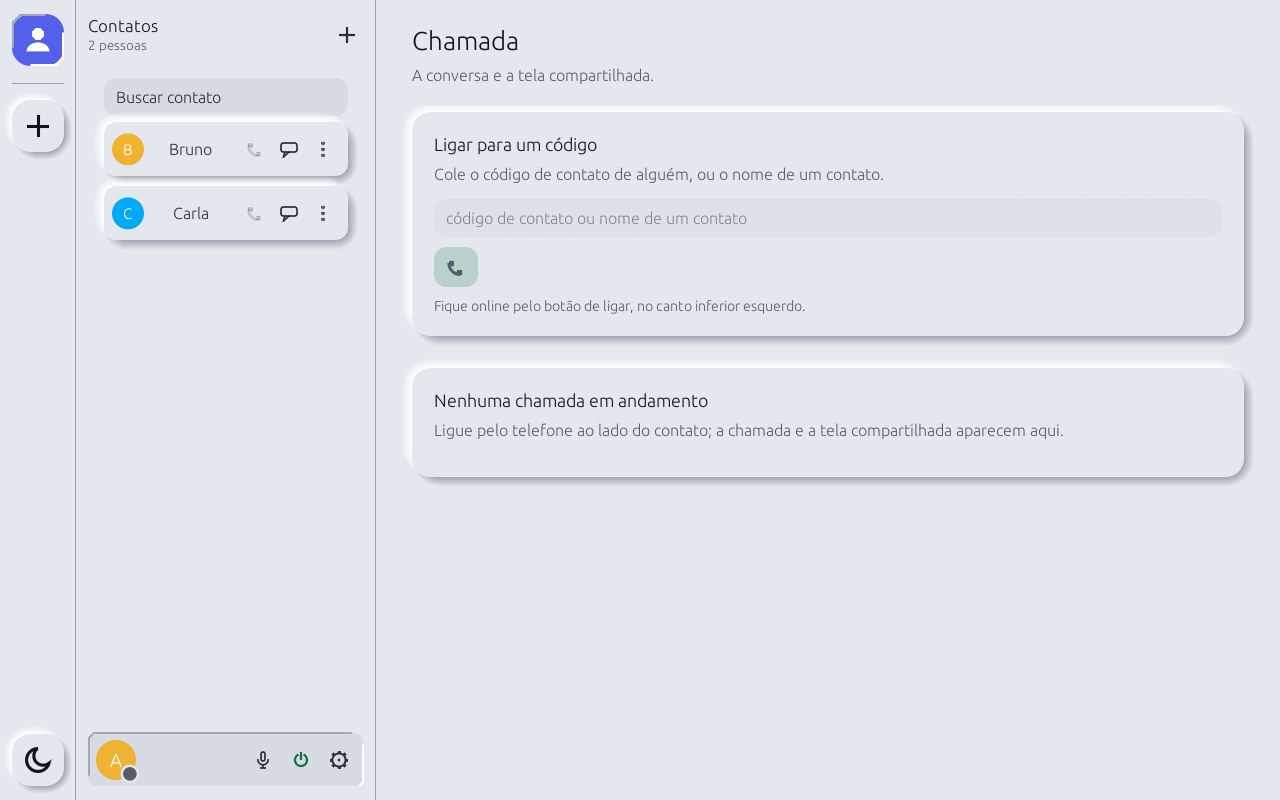
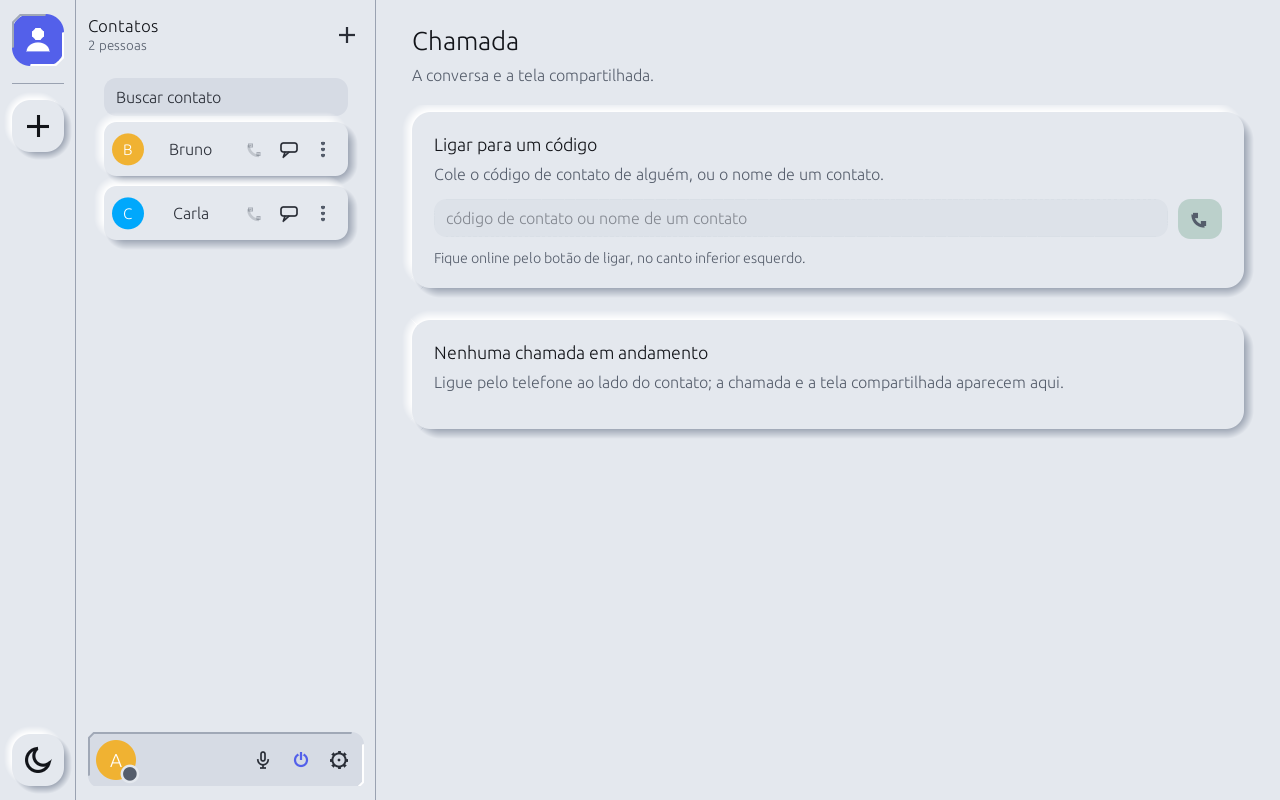
GUI: orientação e estado nas telas (crítica das capturas)
A engrenagem agora fica marcada quando a tela aberta é uma das que ela
abre; o ligar offline usa o acento (verde é "ao vivo/ok"); o tratamento
da voz se divide em Ruído, Eco e Nível e formato, com o controle da
porta renomeado para não se confundir com "Remover ruído"; Atividade
vazia vira um cartão curto; Servidores não repete o título; em Chamada o
botão de ligar fica na linha do campo. O fixture das capturas parte dos
padrões reais (privacidade da tela ligada). Testes e docs/GUI.md
atualizados, PNGs regenerados.

diff --git a/examples/gui/settings.rs b/examples/gui/settings.rs
@@ -39,7 +39,7 @@ impl App {
             }
             ui.add_space(4.0);
             if offline {
-                if big_button(ui, "Ficar online", pal().green).clicked() {
+                if big_button(ui, "Ficar online", BLURPLE).clicked() {
                     self.go_online(ctx);
                 }
             } else if why_off(button(ui, !in_call, "Ficar offline", pal().bg), !in_call, "Desligue a chamada antes de ficar offline").clicked()
@@ -213,13 +213,16 @@ impl App {
     }
 
     pub(crate) fn log_tab(&mut self, ui: &mut egui::Ui) {
+        // Sem linhas o poço de altura cheia só carregava uma frase no canto: um cartão curto diz o mesmo e o poço
+        // volta quando houver o que listar.
+        if self.log.lock_unpoisoned().is_empty() {
+            card(ui, "Nada ainda", &format!("Fique online pelo {ONLINE_HINT}; o que o programa faz aparece aqui."), |_| {});
+            return;
+        }
         sunken_frame(ui, 12, 14, |ui| {
             ui.set_width(ui.available_width());
             egui::ScrollArea::vertical().auto_shrink(false).stick_to_bottom(true).show(ui, |ui| {
                 let lines = self.log.lock_unpoisoned();
-                if lines.is_empty() {
-                    note(ui, "Nada ainda. Fique online (botão de ligar, no canto inferior esquerdo) e o que o programa faz aparece aqui.");
-                }
                 for l in lines.iter() {
                     ui.label(RichText::new(l).monospace().size(13.5));
                 }
@@ -304,6 +307,47 @@ mod layout_tests {
                     for (b, rb) in &rects[i + 1..] {
                         assert!(!ra.intersects(*rb), "largura {width}, offline {offline}: '{a}' {ra:?} sobrepõe '{b}' {rb:?}");
                     }
+                }
+            }
+        }
+    }
+
+    /// Renderiza `f` numa janela de `size` e devolve os cartões desenhados (título e retângulo).
+    fn cards(size: egui::Vec2, f: impl FnMut(&mut egui::Ui)) -> Vec<(String, egui::Rect)> {
+        let mut f = f;
+        let ctx = egui::Context::default();
+        crate::theme::apply(&ctx);
+        for _ in 0..3 {
+            CARD_RECTS.with(|r| r.borrow_mut().clear());
+            let input = egui::RawInput { screen_rect: Some(egui::Rect::from_min_size(egui::Pos2::ZERO, size)), ..Default::default() };
+            let _ = ctx.run(input, |ctx| {
+                egui::CentralPanel::default().show(ctx, |ui| f(ui));
+            });
+        }
+        CARD_RECTS.with(|r| r.borrow().clone())
+    }
+
+    /// Atividade sem linhas é um cartão curto, não um poço que ocupa a altura toda.
+    #[test]
+    fn an_empty_activity_log_is_a_short_card() {
+        let mut app = app();
+        let rects = cards(egui::vec2(1000.0, 800.0), |ui| app.log_tab(ui));
+        let (_, rect) = rects.iter().find(|(t, _)| t == "Nada ainda").expect("cartão de log vazio");
+        assert!(rect.height() < 160.0, "o cartão vazio tem {} px", rect.height());
+    }
+
+    /// O tratamento da voz vem em cartões por assunto, sem um sobre o outro, nas duas larguras.
+    #[test]
+    fn voice_settings_are_grouped_in_cards_that_do_not_overlap() {
+        for width in [700.0_f32, 1300.0] {
+            let mut app = app();
+            let rects = cards(egui::vec2(width, 1800.0), |ui| app.audio_tab(ui, true, false, false));
+            for title in ["Ruído", "Eco", "Nível e formato"] {
+                assert!(rects.iter().any(|(t, _)| t == title), "largura {width}: falta o cartão '{title}'");
+            }
+            for (i, (a, ra)) in rects.iter().enumerate() {
+                for (b, rb) in &rects[i + 1..] {
+                    assert!(!ra.intersects(*rb), "largura {width}: '{a}' {ra:?} sobrepõe '{b}' {rb:?}");
                 }
             }
         }

diff --git a/examples/gui/ui.rs b/examples/gui/ui.rs
@@ -51,6 +51,12 @@ pub(crate) struct App {
     pub(crate) chat_draft: String,
 }
 
+/// A engrenagem fica marcada nas telas que só se abrem por ela: sem isso a pessoa em Áudio ou Configurações não vê
+/// onde está (o trilho marca a coluna de contatos, não a tela do centro).
+pub(crate) fn gear_marks(tab: Tab) -> bool {
+    matches!(tab, Tab::Video | Tab::Audio | Tab::Settings | Tab::Log)
+}
+
 /// Larguras a partir das quais o conteúdo se divide em duas colunas.
 const TWO_COLUMNS: f32 = 780.0;
 
@@ -195,7 +201,7 @@ impl App {
             let can_toggle = offline || !in_call;
             if can_toggle && me.hovered() {
                 ui.painter().circle_filled(me.rect.center(), me.rect.width() / 2.0, Color32::from_black_alpha(150));
-                theme::power_icon(ui, me.rect, if offline { pal().green } else { pal().red });
+                theme::power_icon(ui, me.rect, if offline { pal().focus } else { pal().red });
             }
             let tip = format!("{name}: {text}{}", if !can_toggle { "" } else if offline { "\nClique para ficar online" } else { "\nClique para ficar offline" });
             let me = me.on_hover_text(tip);
@@ -209,7 +215,10 @@ impl App {
             // Sair da sala e desligar a chamada 1:1 ficam na subseção acima deste painel.
             // Engrenagem e mudo ficam juntos na ponta direita da linha (a engrenagem por último, na borda).
             ui.with_layout(egui::Layout::right_to_left(egui::Align::Center), |ui| {
-                let gear = glyph_button(ui, "Menu", "Chamada, vídeo, áudio, configurações e atividade", None, gear_icon);
+                // A engrenagem marca a tela aberta quando ela mora no menu (o trilho ao lado só diz qual coluna está à esquerda).
+                let here = gear_marks(self.tab);
+                let gear_tip = if here { format!("{} (aberta). Chamada, vídeo, áudio, configurações e atividade", self.title().0) } else { "Chamada, vídeo, áudio, configurações e atividade".to_string() };
+                let gear = glyph_button_active(ui, "Menu", &gear_tip, here, gear_icon);
                 let calling_1to1 = in_call && !in_room;
                 let menu = theme::menu(&gear).show(|ui| {
                     ui.set_min_width(theme::MENU_WIDTH);
@@ -234,7 +243,7 @@ impl App {
                 theme::menu_focus_back(ui, &gear, menu.is_some());
                 let muted = self.shared.audio.muted.load(Ordering::Relaxed);
                 // Offline o caminho para ficar online fica à vista: sem ele, só o hover do avatar o mostrava.
-                if offline && glyph_button(ui, "Ficar online", "Ficar online", Some(pal().green), power_glyph).clicked() {
+                if offline && glyph_button(ui, "Ficar online", "Ficar online", Some(pal().focus), power_glyph).clicked() {
                     self.go_online(ctx);
                 }
                 let shortcut = ctx.format_shortcut(&MUTE_KEY);
@@ -399,5 +408,21 @@ impl eframe::App for App {
             self.note_slow(format!("janela: um quadro levou {} ms para desenhar", took.as_millis()));
         }
         LAST_FRAME_END.with(|l| l.set(Some(std::time::Instant::now())));
+    }
+}
+
+#[cfg(test)]
+mod tests {
+    use super::*;
+
+    /// A engrenagem marca só as telas que moram no menu dela; a inicial, a chamada e os servidores ficam de fora.
+    #[test]
+    fn the_gear_marks_only_the_screens_it_opens() {
+        for tab in [Tab::Video, Tab::Audio, Tab::Settings, Tab::Log] {
+            assert!(gear_marks(tab));
+        }
+        for tab in [Tab::Contacts, Tab::Call, Tab::Servers] {
+            assert!(!gear_marks(tab));
+        }
     }
 }

diff --git a/examples/gui/theme.rs b/examples/gui/theme.rs
@@ -370,6 +370,13 @@ pub(crate) fn why_off(reply: egui::Response, enabled: bool, reason: &str) -> egu
 /// `ink` recebe se o ponteiro está em cima e devolve a tinta; em `Ui` desligado o ícone apaga e não reage. Botão novo
 /// nasce daqui, para não esquecer nome, dica ou foco.
 fn bare_button(ui: &mut Ui, size: egui::Vec2, name: &str, tip: &str, ink: impl FnOnce(bool) -> Color32, icon: f32, draw: impl FnOnce(&egui::Painter, Pos2, f32, Color32)) -> egui::Response {
+    bare_button_state(ui, size, name, tip, false, ink, icon, draw)
+}
+
+/// `bare_button` com estado de "lugar atual": `active` afunda a placa e pinta o ícone no acento, para a pessoa ver em
+/// qual tela está (cor e relevo juntos: o estado nunca fica só na sombra).
+#[allow(clippy::too_many_arguments)]
+fn bare_button_state(ui: &mut Ui, size: egui::Vec2, name: &str, tip: &str, active: bool, ink: impl FnOnce(bool) -> Color32, icon: f32, draw: impl FnOnce(&egui::Painter, Pos2, f32, Color32)) -> egui::Response {
     let enabled = ui.is_enabled();
     let (rect, reply) = ui.allocate_exact_size(size, egui::Sense::click());
     reply.widget_info(|| egui::WidgetInfo::labeled(egui::WidgetType::Button, enabled, name));
@@ -377,10 +384,18 @@ fn bare_button(ui: &mut Ui, size: egui::Vec2, name: &str, tip: &str, ink: impl F
     // qual linha é o menu.
     let open = egui::Popup::is_id_open(ui.ctx(), egui::Popup::default_response_id(&reply));
     let hovered = enabled && (reply.hovered() || open);
-    if hovered {
+    if active && enabled {
+        sunken(ui.painter(), rect, R_BARE, pal().deep);
+    } else if hovered {
         ui.painter().rect_filled(rect, CornerRadius::same(R_BARE), pal().hover);
     }
-    let color = if enabled { ink(hovered) } else { pal().muted.gamma_multiply(0.5) };
+    let color = if !enabled {
+        pal().muted.gamma_multiply(0.5)
+    } else if active {
+        pal().focus
+    } else {
+        ink(hovered)
+    };
     draw(ui.painter(), rect.center() + press_nudge(&reply), icon, color);
     focus_ring(ui, &reply, R_BARE);
     // `on_hover_text` só aparece com o widget ligado: num ícone desligado a dica (o motivo) vai por `on_disabled_hover_text`.
@@ -882,6 +897,12 @@ pub(crate) fn alert_icon(painter: &egui::Painter, center: Pos2, size: f32, color
 /// `Ui` desligado o ícone apaga e não clica.
 pub(crate) fn glyph_button(ui: &mut Ui, name: &str, tip: &str, color: Option<Color32>, draw: impl FnOnce(&egui::Painter, Pos2, f32, Color32)) -> egui::Response {
     bare_button(ui, vec2(34.0, 34.0), name, tip, |h| color.unwrap_or(if h { pal().strong } else { pal().text }), 20.0, draw)
+}
+
+/// `glyph_button` que marca o lugar atual: `active` afunda a placa e põe o ícone no acento (a engrenagem, quando a
+/// tela aberta é uma das que moram no menu dela).
+pub(crate) fn glyph_button_active(ui: &mut Ui, name: &str, tip: &str, active: bool, draw: impl FnOnce(&egui::Painter, Pos2, f32, Color32)) -> egui::Response {
+    bare_button_state(ui, vec2(34.0, 34.0), name, tip, active, |h| if h { pal().strong } else { pal().text }, 20.0, draw)
 }
 
 /// Linha de menu com ícone desenhado à esquerda; `selected` marca a linha como o item atual e `tint` fixa a

diff --git a/examples/gui/media.rs b/examples/gui/media.rs
@@ -113,10 +113,20 @@ impl App {
                     }
                 });
             } else {
-                card(ui, "Tratamento da voz", "O que o programa faz com o som antes de mandá-lo.", |ui| {
-                    ui.spacing_mut().slider_width = (ui.available_width() - 110.0).max(120.0);
+                // Três cartões por assunto (ruído, eco, nível): oito caixas no mesmo nível não se leem de uma vez.
+                card(ui, "Ruído", "O que o programa faz com o som antes de mandá-lo.", |ui| {
                     ui.check(&mut p.denoise, "Remover ruído (rede neural)")
                         .on_hover_text("Tira teclado, ventilador, estática e vozes ao fundo (RNNoise). Com ela ligada, a porta e o indicador \"voz\" só contam o que a rede reconhece como fala. Adiciona ~10 ms de atraso.");
+                    ui.check(&mut p.gate, "Silenciar o que não é voz")
+                        .on_hover_text("Quando o microfone fica abaixo do limiar, o som enviado é reduzido. Ajuste a sensibilidade até a linha ficar logo acima do ruído.");
+                    ui.add_enabled_ui(p.gate, |ui| {
+                        ui.spacing_mut().slider_width = (ui.available_width() - 110.0).max(120.0);
+                        ui.label("Quanto abaixar o que não é voz");
+                        ui.add(egui::Slider::new(&mut p.gate_depth_db, AudioPrefs::GATE_DEPTH_DB).suffix(" dB"));
+                    });
+                    ui.check(&mut p.high_pass, "Cortar graves (ventilador, mesa, sopro)");
+                });
+                card(ui, "Eco", "", |ui| {
                     ui.check(&mut p.echo_cancel, "Cancelar eco do alto-falante")
                         .on_hover_text("Tira do microfone o que saiu pelo alto-falante, para o outro lado não se ouvir de volta. Leva alguns segundos de conversa para aprender o ambiente. Com fones não é preciso.");
                     ui.check(&mut p.echo_suppress, "Abaixar o microfone enquanto só há eco")
@@ -124,13 +134,8 @@ impl App {
                     if let Some(erle) = a.echo_erle().filter(|_| p.echo_cancel && (in_call || testing)) {
                         note(ui, format!("Eco cancelado: {erle:.0} dB"));
                     }
-                    ui.check(&mut p.gate, "Silenciar o que não é voz")
-                        .on_hover_text("Quando o microfone fica abaixo do limiar, o som enviado é reduzido. Ajuste a sensibilidade até a linha ficar logo acima do ruído.");
-                    ui.add_enabled_ui(p.gate, |ui| {
-                        ui.label("Redução do ruído");
-                        ui.slider(egui::Slider::new(&mut p.gate_depth_db, AudioPrefs::GATE_DEPTH_DB).suffix(" dB"));
-                    });
-                    ui.check(&mut p.high_pass, "Cortar graves (ventilador, mesa, sopro)");
+                });
+                card(ui, "Nível e formato", "", |ui| {
                     ui.check(&mut p.agc, "Volume automático (nivela voz baixa e alta)")
                         .on_hover_text("Reforça quem fala baixo e contém quem fala alto. Não reforça o ruído de fundo.");
                     ui.add_enabled_ui(!in_call, |ui| {

diff --git a/examples/gui/snapshot.rs b/examples/gui/snapshot.rs
@@ -162,8 +162,9 @@ fn sample_app(tab: Tab) -> App {
         my_name: "Ana".into(),
         secret: "11".repeat(32),
         contacts: format!("Bruno {}\nCarla {}", "ab".repeat(32), "cd".repeat(32)),
-        intros: true,
-        ..Form::default()
+        // Os padrões de quem abre o app pela primeira vez (privacidade da tela ligada, DHT, âncora): a captura mostra o
+        // que a pessoa vê de verdade, não um `Form` zerado que desmarca tudo.
+        ..Form::first_run()
     };
     App {
         rt,
@@ -193,6 +194,14 @@ fn shot(tab: Tab, size: egui::Vec2) -> Frame {
 #[cfg(test)]
 mod tests {
     use super::*;
+
+    /// A captura parte dos padrões reais: a privacidade na transmissão da tela vem ligada.
+    #[test]
+    fn sample_app_starts_from_the_real_defaults() {
+        let app = sample_app(Tab::Video);
+        assert!(app.form.screen_private, "o padrão do app é privado");
+        assert!(app.form.use_dht && app.form.auto_online);
+    }
 
     /// O rasterizador pinta: a tela de Configurações em tema escuro tem bem mais que o fundo.
     #[test]

diff --git a/examples/gui/call.rs b/examples/gui/call.rs
@@ -12,8 +12,12 @@ impl App {
     pub(crate) fn dial_card(&mut self, ui: &mut egui::Ui, offline: bool, busy: bool) {
         card(ui, "Ligar para um código", "Cole o código de contato de alguém, ou o nome de um contato.", |ui| {
             let live = !offline && !busy;
-            ui.add_enabled(live, field(&mut self.form.peer, "código de contato ou nome de um contato"));
-            if phone_button(ui, live, "Ligar", pal().green).clicked() {
+            // O botão fica na linha do campo, à direita: é dele que a ação sai, e abaixo ficava solto e apagado.
+            let dial = ui.horizontal(|ui| {
+                ui.add_enabled(live, field(&mut self.form.peer, "código de contato ou nome de um contato").desired_width(field_beside(ui, 44.0)));
+                phone_button(ui, live, "Ligar", pal().green).clicked()
+            });
+            if dial.inner {
                 match self.form.target() {
                     Ok(k) => {
                         self.form.save();

diff --git a/examples/gui/servers.rs b/examples/gui/servers.rs
@@ -87,8 +87,8 @@ impl App {
     pub(crate) fn servers_tab(&mut self, ui: &mut egui::Ui, offline: bool) {
         let hub = self.shared.servers.lock_unpoisoned().clone();
         let Some(hub) = hub.filter(|_| !offline) else {
-            card(ui, "Servidores", "Grupos de pessoas com salas de voz, sem servidor no meio.", |ui| {
-                note(ui, "Fique online pelo botão de ligar, no canto inferior esquerdo, para ver e usar os seus servidores.");
+            // O título da página já diz "Servidores": o cartão diz o estado, não repete o nome.
+            card(ui, "Você está offline", &format!("Para ver e usar os seus servidores, fique online pelo {ONLINE_HINT}."), |ui| {
                 details(ui, "Como funciona", "Cada membro guarda o grupo e o mantém de pé enquanto estiver online; não há servidor que o hospede.");
             });
             return;

diff --git a/docs/GUI.md b/docs/GUI.md
@@ -6,7 +6,7 @@ Uso da GUI (`examples/gui`): as abas, volume, sensibilidade do microfone, dispos
 
 ## As abas
 
-A janela segue o layout do Discord e o visual neomórfico (soft UI: uma cor base, relevo por duas sombras; cartões e botões elevados, campos e caixas afundados, botão apertado afunda): à esquerda ficam o trilho de servidores (o ícone de pessoa, Contatos, no alto, que troca a coluna de salas pela lista de contatos, um embaixo do outro, os servidores e + para criar um novo; bem no pé do trilho, o botão do **tema**: sol no escuro, lua no claro) e, ao lado dele, a **coluna de salas** do servidor escolhido (fora da tela do servidor, e sem servidor escolhido, ela mostra os contatos no lugar; clicar numa sala entra nela; quem está em cada sala aparece embaixo do nome). No pé da coluna ficam o seu avatar com o estado (offline, conectando, online, em chamada; o texto do estado aparece ao passar o mouse), o mudo, a **engrenagem** (menu com Chamada, Vídeo, Áudio, Configurações e Atividade) e o desligar; passar o mouse no círculo com a sua inicial mostra o ícone de ligar/desligar e clicar alterna entre online e offline (menos em chamada). Offline, um botão de ligar verde (`power_glyph`) fica à vista ao lado do mudo, e as telas que pedem para ficar online apontam para ele (`ONLINE_HINT`); online ele some. Com a janela larga (≥ 780 px) cada página se divide em duas colunas. Os botões de ação (ligar, desligar, mudo, compartilhar a tela, assistir, ampliar) são só um ícone, e o nome da ação aparece ao passar o mouse; assistir é um olho (com um risco quando já está assistindo); o quadradinho vermelho de "transmitindo" só aparece em quem não tem botão.
+A janela segue o layout do Discord e o visual neomórfico (soft UI: uma cor base, relevo por duas sombras; cartões e botões elevados, campos e caixas afundados, botão apertado afunda): à esquerda ficam o trilho de servidores (o ícone de pessoa, Contatos, no alto, que troca a coluna de salas pela lista de contatos, um embaixo do outro, os servidores e + para criar um novo; bem no pé do trilho, o botão do **tema**: sol no escuro, lua no claro) e, ao lado dele, a **coluna de salas** do servidor escolhido (fora da tela do servidor, e sem servidor escolhido, ela mostra os contatos no lugar; clicar numa sala entra nela; quem está em cada sala aparece embaixo do nome). No pé da coluna ficam o seu avatar com o estado (offline, conectando, online, em chamada; o texto do estado aparece ao passar o mouse), o mudo, a **engrenagem** (menu com Chamada, Vídeo, Áudio, Configurações e Atividade) e o desligar; passar o mouse no círculo com a sua inicial mostra o ícone de ligar/desligar e clicar alterna entre online e offline (menos em chamada). Offline, um botão de ligar no acento (`power_glyph`; verde é "ao vivo/ok", e o app ainda não está) fica à vista ao lado do mudo, e as telas que pedem para ficar online apontam para ele (`ONLINE_HINT`); online ele some. Com a janela larga (≥ 780 px) cada página se divide em duas colunas. Os botões de ação (ligar, desligar, mudo, compartilhar a tela, assistir, ampliar) são só um ícone, e o nome da ação aparece ao passar o mouse; assistir é um olho (com um risco quando já está assistindo); o quadradinho vermelho de "transmitindo" só aparece em quem não tem botão.
 
 À esquerda da janela fica, em qualquer aba, o *trilho de servidores* (como o do Discord): um ícone com a inicial de cada servidor e o **+** para criar ou aceitar convite. Clicar num ícone abre a página daquele servidor; a barra de abas não tem item de Servidores, só o trilho.
 
@@ -16,9 +16,9 @@ A janela segue o layout do Discord e o visual neomórfico (soft UI: uma cor base
 | *Servidor* (pelo trilho) | As *Salas de voz* com quem está em cada uma, o aro verde de quem fala e, no centro, o bate-papo da sala em que você está (apagado quando a sala esvazia; enquanto você assiste a uma tela ela cobre o centro e o bate-papo só volta ao parar de assistir ou ao clicar no nome da sala na barra do pé), *Telas da sala*, e, numa coluna à direita, os *Membros* (online e offline) com o convite recolhido e o aviso de IP. A coluna de membros só abre sozinha em janela de 1100 px ou mais (trilho + salas + membros tomam 716 px e o bate-papo precisa de ~380); em janela menor ela fica escondida, e o ícone de duas pessoas no cabeçalho das salas (dica: "membros e convite", já que o convite mora nessa coluna) mostra ou esconde e fica afundado enquanto a coluna está aberta, a escolha valendo até fechar o app. Detalhes em [SERVIDORES.md](SERVIDORES.md) |
 | **Chamada** | *Ligar para um código* (sem chamada); a conversa (chamar ou atender não troca de aba; compartilhar a tela e o mudo ficam só na barra do pé, sem botão aqui), *Sua transmissão* (estado e linha de diagnóstico, só quando você transmite) e a *Tela de ...* de quem transmite para você, que se vê só de dois jeitos: a miniatura do cartão e a tela cheia (🔍; a janela do app vai a tela cheia e a imagem ocupa tudo; sai pelo X no canto ou pelo Esc) |
 | **Vídeo** | *Transmissão de tela*: privacidade, *Priorizar* fluidez ou nitidez e codificar pela placa de vídeo; valem da próxima transmissão, na chamada e nas salas |
-| **Áudio** | *Dispositivos* (usar microfone e alto-falante, escolha dos dois), *Volume e microfone* (mudo, volume, ganho, medidor, sensibilidade, teste) e *Tratamento da voz* (ruído, eco, porta, graves, volume automático, Opus) |
+| **Áudio** | *Dispositivos* (usar microfone e alto-falante, escolha dos dois), *Volume e microfone* (mudo, volume, ganho, medidor, sensibilidade, teste) e três cartões de tratamento da voz: *Ruído* (remover ruído, silenciar o que não é voz e o quanto abaixar, cortar graves), *Eco* (cancelar e abaixar o microfone) e *Nível e formato* (volume automático, Opus, restaurar padrões) |
 | **Configurações** | *Conexão* (Ficar online / offline, o estado e a caixa *Tentar ficar online ao abrir o programa*, ligada por padrão; desmarcar grava `no_auto_online=1` em `~/.clam-gui.conf`), *Meu código de contato* (com *Copiar o código*), *Identidade* (a chave secreta, oculta; *Gerar nova identidade*), *Seu nome*, *Endereço* público, *Encontrar contatos* (DHT, circuito da DHT, aceitar apresentações) e *Âncoras* (servir de âncora, as que você usa e o código da sua) |
-| **Atividade** | O registro do que o programa está fazendo (avisos de endereço, apresentações, erros) |
+| **Atividade** | O registro do que o programa está fazendo (avisos de endereço, apresentações, erros); vazio, é um cartão curto (*Nada ainda*), não um poço de altura cheia |
 
 Tudo o que a janela guarda fica em `~/.clam-gui.conf` e nos arquivos ao lado (`.clam-gui.known`, `.clam-gui.relay`, `.clam-gui.intro`, `.clam-gui.removed`, `.clam-gui.servers`); a chave secreta vai para o chaveiro do sistema, quando há ([SEGURANCA.md](SEGURANCA.md#chaveiro)). Se o chaveiro não responde, a janela avisa em *Identidade* e não cria uma identidade nova no lugar.
 
@@ -27,7 +27,7 @@ Tudo o que a janela guarda fica em `~/.clam-gui.conf` e nos arquivos ao lado (`.
 - **Controles de áudio.** Com o áudio ligado e o nó online, a aba Áudio tem mudo (envia silêncio), volume do alto-falante (0 a 200 %), ganho do microfone (0 a 300 %), um medidor do microfone (fica parado enquanto estiver no mudo) e "Testar o microfone", que devolve a sua voz ao alto-falante (use fones). Durante o teste a linha fica ocupada.
 - **Sensibilidade e tratamento da voz.** O medidor traz uma linha na cor do texto: o limiar de sensibilidade (-60 a -20 dBFS, padrão -45). Quando a voz passa da linha o medidor fica verde e diz "voz" (senão, fica azul e sem texto). Quanto mais à esquerda a linha, mais sensível. Em volta dela:
   - **Remover ruído (rede neural)** (ligado por padrão): RNNoise, pelo crate `nnnoiseless` (Rust puro). Tira teclado, ventilador, estática e vozes ao fundo, o que filtro por volume não separa. O áudio sobe de 16 para 48 kHz, passa pela rede em quadros de 10 ms e volta; custa ~10 ms de atraso e pouca CPU. A rede também diz, a cada 10 ms, a probabilidade de ser voz: com ela ligada, a porta e o indicador "voz" só contam trechos acima do limiar **e** com probabilidade ≥ 0,5. Nos primeiros ~100 ms de uma chamada a rede ainda se calibra e pode tomar ruído por voz.
-  - **Silenciar o que não é voz** (porta, desligada por padrão): abaixo do limiar (ou fora do que a rede reconhece como voz) o som enviado cai pela "Redução do ruído" (6 a 60 dB, padrão 40). A porta abre em 2 ms, segura 250 ms depois da última palavra e fecha em ~60 ms, para não cortar o fim das frases.
+  - **Silenciar o que não é voz** (porta, desligada por padrão): abaixo do limiar (ou fora do que a rede reconhece como voz) o som enviado cai pelo controle "Quanto abaixar o que não é voz" (6 a 60 dB, padrão 40). A porta abre em 2 ms, segura 250 ms depois da última palavra e fecha em ~60 ms, para não cortar o fim das frases.
   - **Cancelar eco do alto-falante** (ligado por padrão): o AEC3 do WebRTC (`sonora`) usa o que o alto-falante tocou como referência e tira do microfone o que voltou por ele. A janela mostra "Eco cancelado: N dB" na chamada (energia do microfone antes e depois do cancelador, enquanto o outro lado fala). Leva alguns segundos de conversa para aprender o ambiente. A referência é o que de fato saiu pelo alto-falante, amostra a amostra e inclusive o silêncio, entregue ao cancelador assim que chega e nunca completada com zeros: antes ela só tinha as partes com voz e blocos grandes da placa a entregavam em rajadas, e o cancelador perdia o atraso entre o que tocou e o que o microfone ouviu (no alto-falante do notebook, ~0–3 dB; agora ~14 dB, com o atraso achado em ~25 ms).
   - **Abaixar o microfone enquanto só há eco** (ligado por padrão): reforço para o que o cancelador deixa passar. Com o outro lado tocando acima de -50 dBFS (e até ~160 ms depois), se o microfone está mais de 20 dB abaixo do que sai pelo alto-falante o som cai 18 dB (desce em 3 ms, volta em 40 ms) e o indicador "voz" não acende. Quem fala bem baixinho por cima do outro pode ser cortado; com fones, desligue.
   - **Cortar graves** (ligado por padrão): filtro passa-altas de 12 dB por oitava em 100 Hz; tira ventilador, estrondo de mesa e sopro.
@@ -102,9 +102,11 @@ As seções da janela (trilho, salas, centro, membros) são separadas por uma li
 
 **Convidar e atalhos.** O cabeçalho das salas tem um ícone de convidar (pessoa com `+`) ao lado do alternador de membros: abre ali mesmo um menu com o formulário de convite (não há mais cartão no fim da lista de membros); só fecha por clique fora ou Esc, para dar tempo de escolher o contato e marcar o aviso do IP. Atalhos (Ctrl; Cmd no macOS), sempre na dica do botão: **Ctrl+I** convida, **Ctrl+B** mostra ou esconde os membros, **Ctrl+M** muda o microfone para mudo e de volta, **Ctrl+K** leva à lista de contatos e foca a busca e **Esc** fecha o menu de convite. O erro do convite aparece dentro do menu, junto do botão, e some quando ele fecha; ao enviar com sucesso o menu fecha e o "Convite enviado a X" fica no pé da aba, com as demais respostas do servidor. Entrar numa sala não tem atalho de propósito: é o gesto que mostra o IP aos membros e uma tecla perdida não deve fazer isso.
 
-**Menus.** Todos os itens passam por `menu_item`/`menu_row` (`theme.rs`): ícone desenhado, tinta vermelha só no destrutivo, atalho à direita da própria ação e, quando o item não vale, a linha fica apagada, sem relevo nem clique, cresce para mostrar o motivo escrito sob o rótulo e o hover o repete (*Abra um servidor para usar*, *Você está nesta sala: saia dela antes de apagá-la*) e o mesmo motivo vai no nome acessível da linha, para quem usa teclado ou leitor de tela. Os botões que abrem menu (engrenagem, três pontos, sair, lixeira) têm nome acessível próprio (*Mais ações de Fulano*, *Apagar a sala X*). Sair do servidor, apagar sala, remover membro e remover contato (este com a caixa *Bloquear também*) perguntam dentro do menu: a pergunta, o efeito escrito (hover não existe no teclado nem no toque), *Cancelar* e, abaixo e afastada, a confirmação em vermelho, com o ícone do próprio item (porta, lixeira, escudo). O foco do teclado entra em *Cancelar* (o padrão seguro) e, ao cancelar, volta ao item; Esc desfaz a pergunta, e só o segundo Esc fecha o menu. Nos menus de um item só (sair do servidor, apagar sala e remover membro quando quem remove não é o dono, que não tem Promover; `confirm_direct`) não há a linha intermediária: o menu abre já na pergunta, e *Cancelar* ou Esc fecham o menu. Nos menus, ↑ e ↓ andam entre as linhas (o egui já faz entre controles focáveis), Home e End vão à primeira e à última, e Enter aciona. Todos os menus têm a mesma largura mínima (`MENU_WIDTH`, 280 px); um rótulo comprido termina em "…" antes do atalho, em vez de passar por cima. Ao fechar o menu pelo teclado, o foco volta ao botão que o abriu. O menu da engrenagem tem as telas (a chamada em curso aparece como *Chamada em curso*, com o ícone no acento), só isso. Convidar, mostrar os membros, buscar contato e o microfone mudo não estão aqui: cada um fica no botão do próprio lugar (cabeçalho do servidor, lista de contatos e o microfone ao lado da engrenagem), e o atalho continua valendo. Os menus abrem por `theme::menu` (os formulários de convite e de novo contato também): acionado pelo teclado (Enter ou Espaço), o menu leva o foco ao primeiro item habilitado, senão o Tab sairia do popup; com o mouse o foco não muda. O gatilho (⋮, lixeira, porta, engrenagem) fica com a placa e a tinta fortes enquanto o menu dele está aberto, para saber de qual linha é o menu numa lista de ⋮ iguais (o formulário de convite, aberto por `open_bool`, não tem essa marca). O item atual do menu da engrenagem leva também um ponto de acento à direita e `selected` no nome acessível, para o estado não depender só do fundo. O escudo de "Tirar a confiança" aparece cheio (já confia) e o de "Marcar como de confiança", só no contorno.
+**Menus.** Todos os itens passam por `menu_item`/`menu_row` (`theme.rs`): ícone desenhado, tinta vermelha só no destrutivo, atalho à direita da própria ação e, quando o item não vale, a linha fica apagada, sem relevo nem clique, cresce para mostrar o motivo escrito sob o rótulo e o hover o repete (*Abra um servidor para usar*, *Você está nesta sala: saia dela antes de apagá-la*) e o mesmo motivo vai no nome acessível da linha, para quem usa teclado ou leitor de tela. Os botões que abrem menu (engrenagem, três pontos, sair, lixeira) têm nome acessível próprio (*Mais ações de Fulano*, *Apagar a sala X*). Sair do servidor, apagar sala, remover membro e remover contato (este com a caixa *Bloquear também*) perguntam dentro do menu: a pergunta, o efeito escrito (hover não existe no teclado nem no toque), *Cancelar* e, abaixo e afastada, a confirmação em vermelho, com o ícone do próprio item (porta, lixeira, escudo). O foco do teclado entra em *Cancelar* (o padrão seguro) e, ao cancelar, volta ao item; Esc desfaz a pergunta, e só o segundo Esc fecha o menu. Nos menus de um item só (sair do servidor, apagar sala e remover membro quando quem remove não é o dono, que não tem Promover; `confirm_direct`) não há a linha intermediária: o menu abre já na pergunta, e *Cancelar* ou Esc fecham o menu. Nos menus, ↑ e ↓ andam entre as linhas (o egui já faz entre controles focáveis), Home e End vão à primeira e à última, e Enter aciona. Todos os menus têm a mesma largura mínima (`MENU_WIDTH`, 280 px); um rótulo comprido termina em "…" antes do atalho, em vez de passar por cima. Ao fechar o menu pelo teclado, o foco volta ao botão que o abriu. O menu da engrenagem tem as telas (a chamada em curso aparece como *Chamada em curso*, com o ícone no acento), só isso. Convidar, mostrar os membros, buscar contato e o microfone mudo não estão aqui: cada um fica no botão do próprio lugar (cabeçalho do servidor, lista de contatos e o microfone ao lado da engrenagem), e o atalho continua valendo. Os menus abrem por `theme::menu` (os formulários de convite e de novo contato também): acionado pelo teclado (Enter ou Espaço), o menu leva o foco ao primeiro item habilitado, senão o Tab sairia do popup; com o mouse o foco não muda. O gatilho (⋮, lixeira, porta, engrenagem) fica com a placa e a tinta fortes enquanto o menu dele está aberto, para saber de qual linha é o menu numa lista de ⋮ iguais (o formulário de convite, aberto por `open_bool`, não tem essa marca). Enquanto a tela aberta é uma das que a engrenagem abre (Chamada em curso à parte: Vídeo, Áudio, Configurações, Atividade; `gear_marks`), a engrenagem fica afundada com a tinta do acento (`glyph_button_active`), e a dica diz "(aberta)". O item atual do menu da engrenagem leva também um ponto de acento à direita e `selected` no nome acessível, para o estado não depender só do fundo. O escudo de "Tirar a confiança" aparece cheio (já confia) e o de "Marcar como de confiança", só no contorno.
 
 **Dica de ícone desligado.** `bare_button` repete a dica em `on_disabled_hover_text`: `on_hover_text` não aparece em widget desligado, e o ligar apagado do contato precisa dizer o motivo (*Para ligar, fique online… e sem outra chamada*). Na chamada, ao lado de *Conversando agora*, um escudo só de leitura (`privacy_badge`) explica no hover o circuito de 2 saltos com tráfego constante e diz que o contato vê o IP do primeiro salto (a chamada não tem modo direto; veja [SEGURANCA.md](SEGURANCA.md)). A caixa de marcar é quadrada (`R_CHECK`) e só o rádio é círculo; o item ativo do trilho usa o acento e o botão de tema não usa cor de estado (verde e amarelo ficam para estado).
+
+**Telas de apoio.** Em *Chamada* o botão de ligar fica na mesma linha do campo do código; em *Servidores*, offline, o cartão se chama *Você está offline* (o título da página já é Servidores). As capturas de `docs/telas` partem dos padrões reais (`Form::first_run()`: privacidade da tela ligada, DHT, âncora), não de um formulário inventado.
 
 **Alvos e toque.** Os ícones sem moldura (três pontos, lixeira, sair, X, ligar, bate-papo, engrenagem, mudo) têm 34 px de lado e descem 1 px enquanto apertados, já que não têm relevo para afundar.
 
